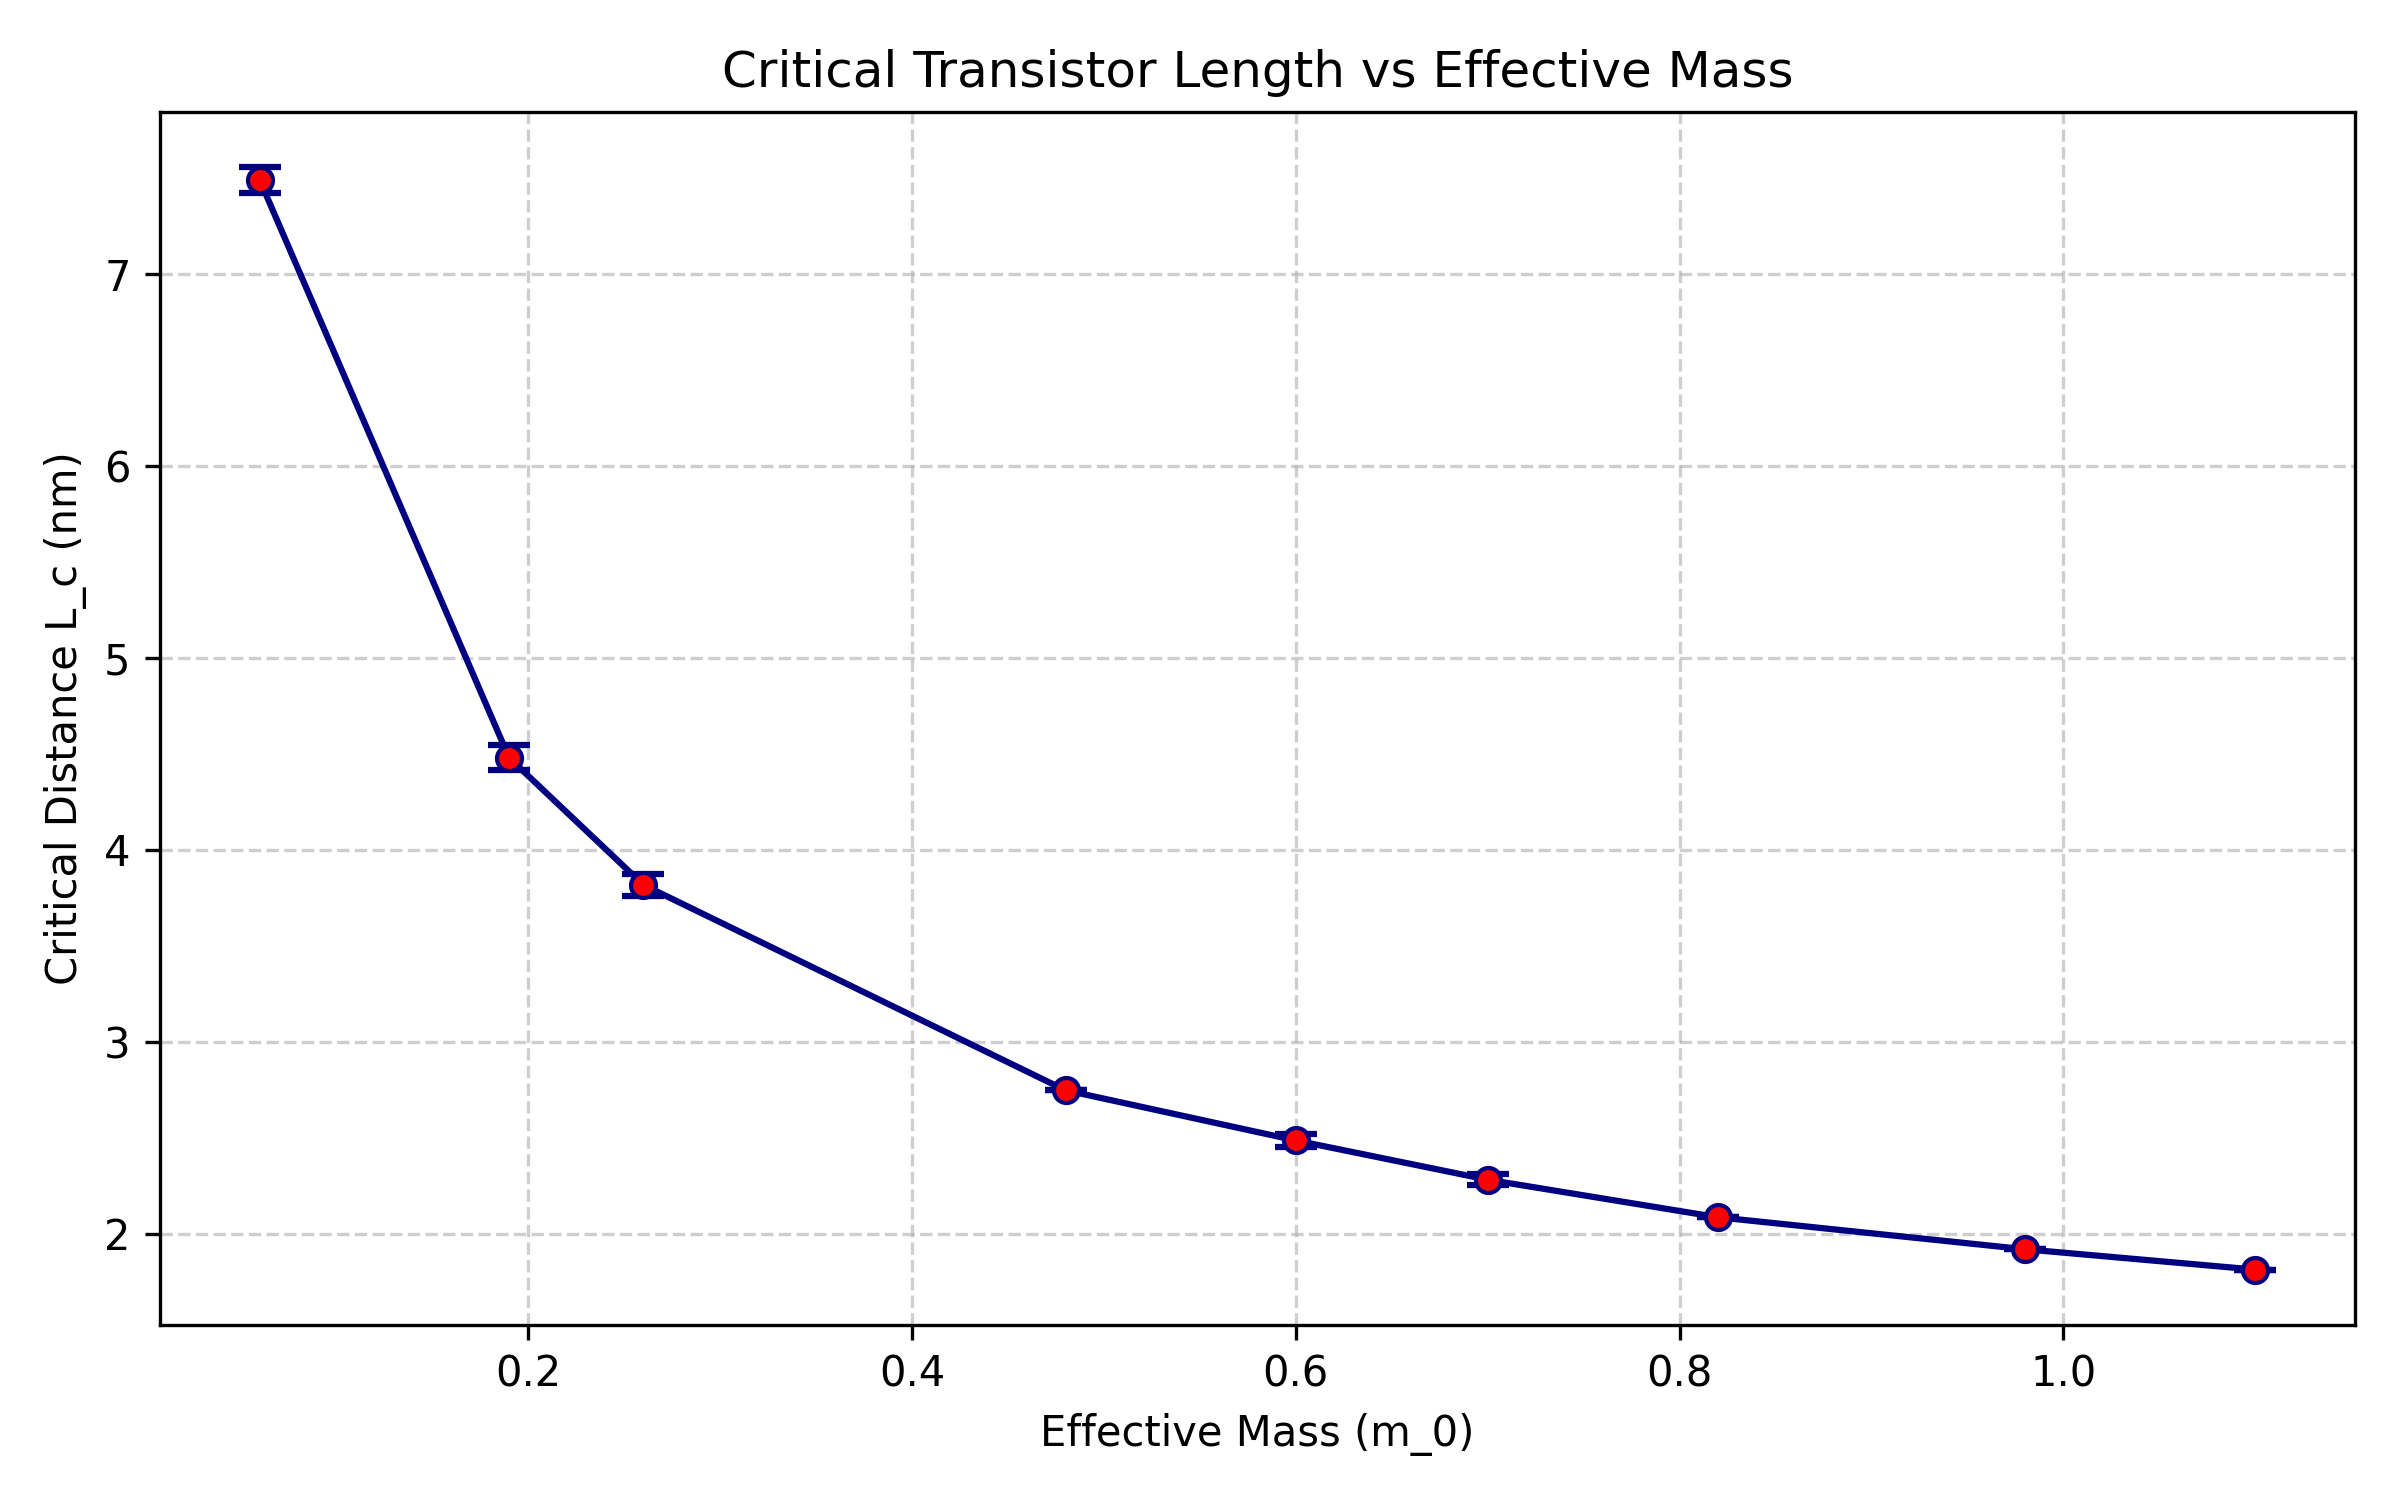
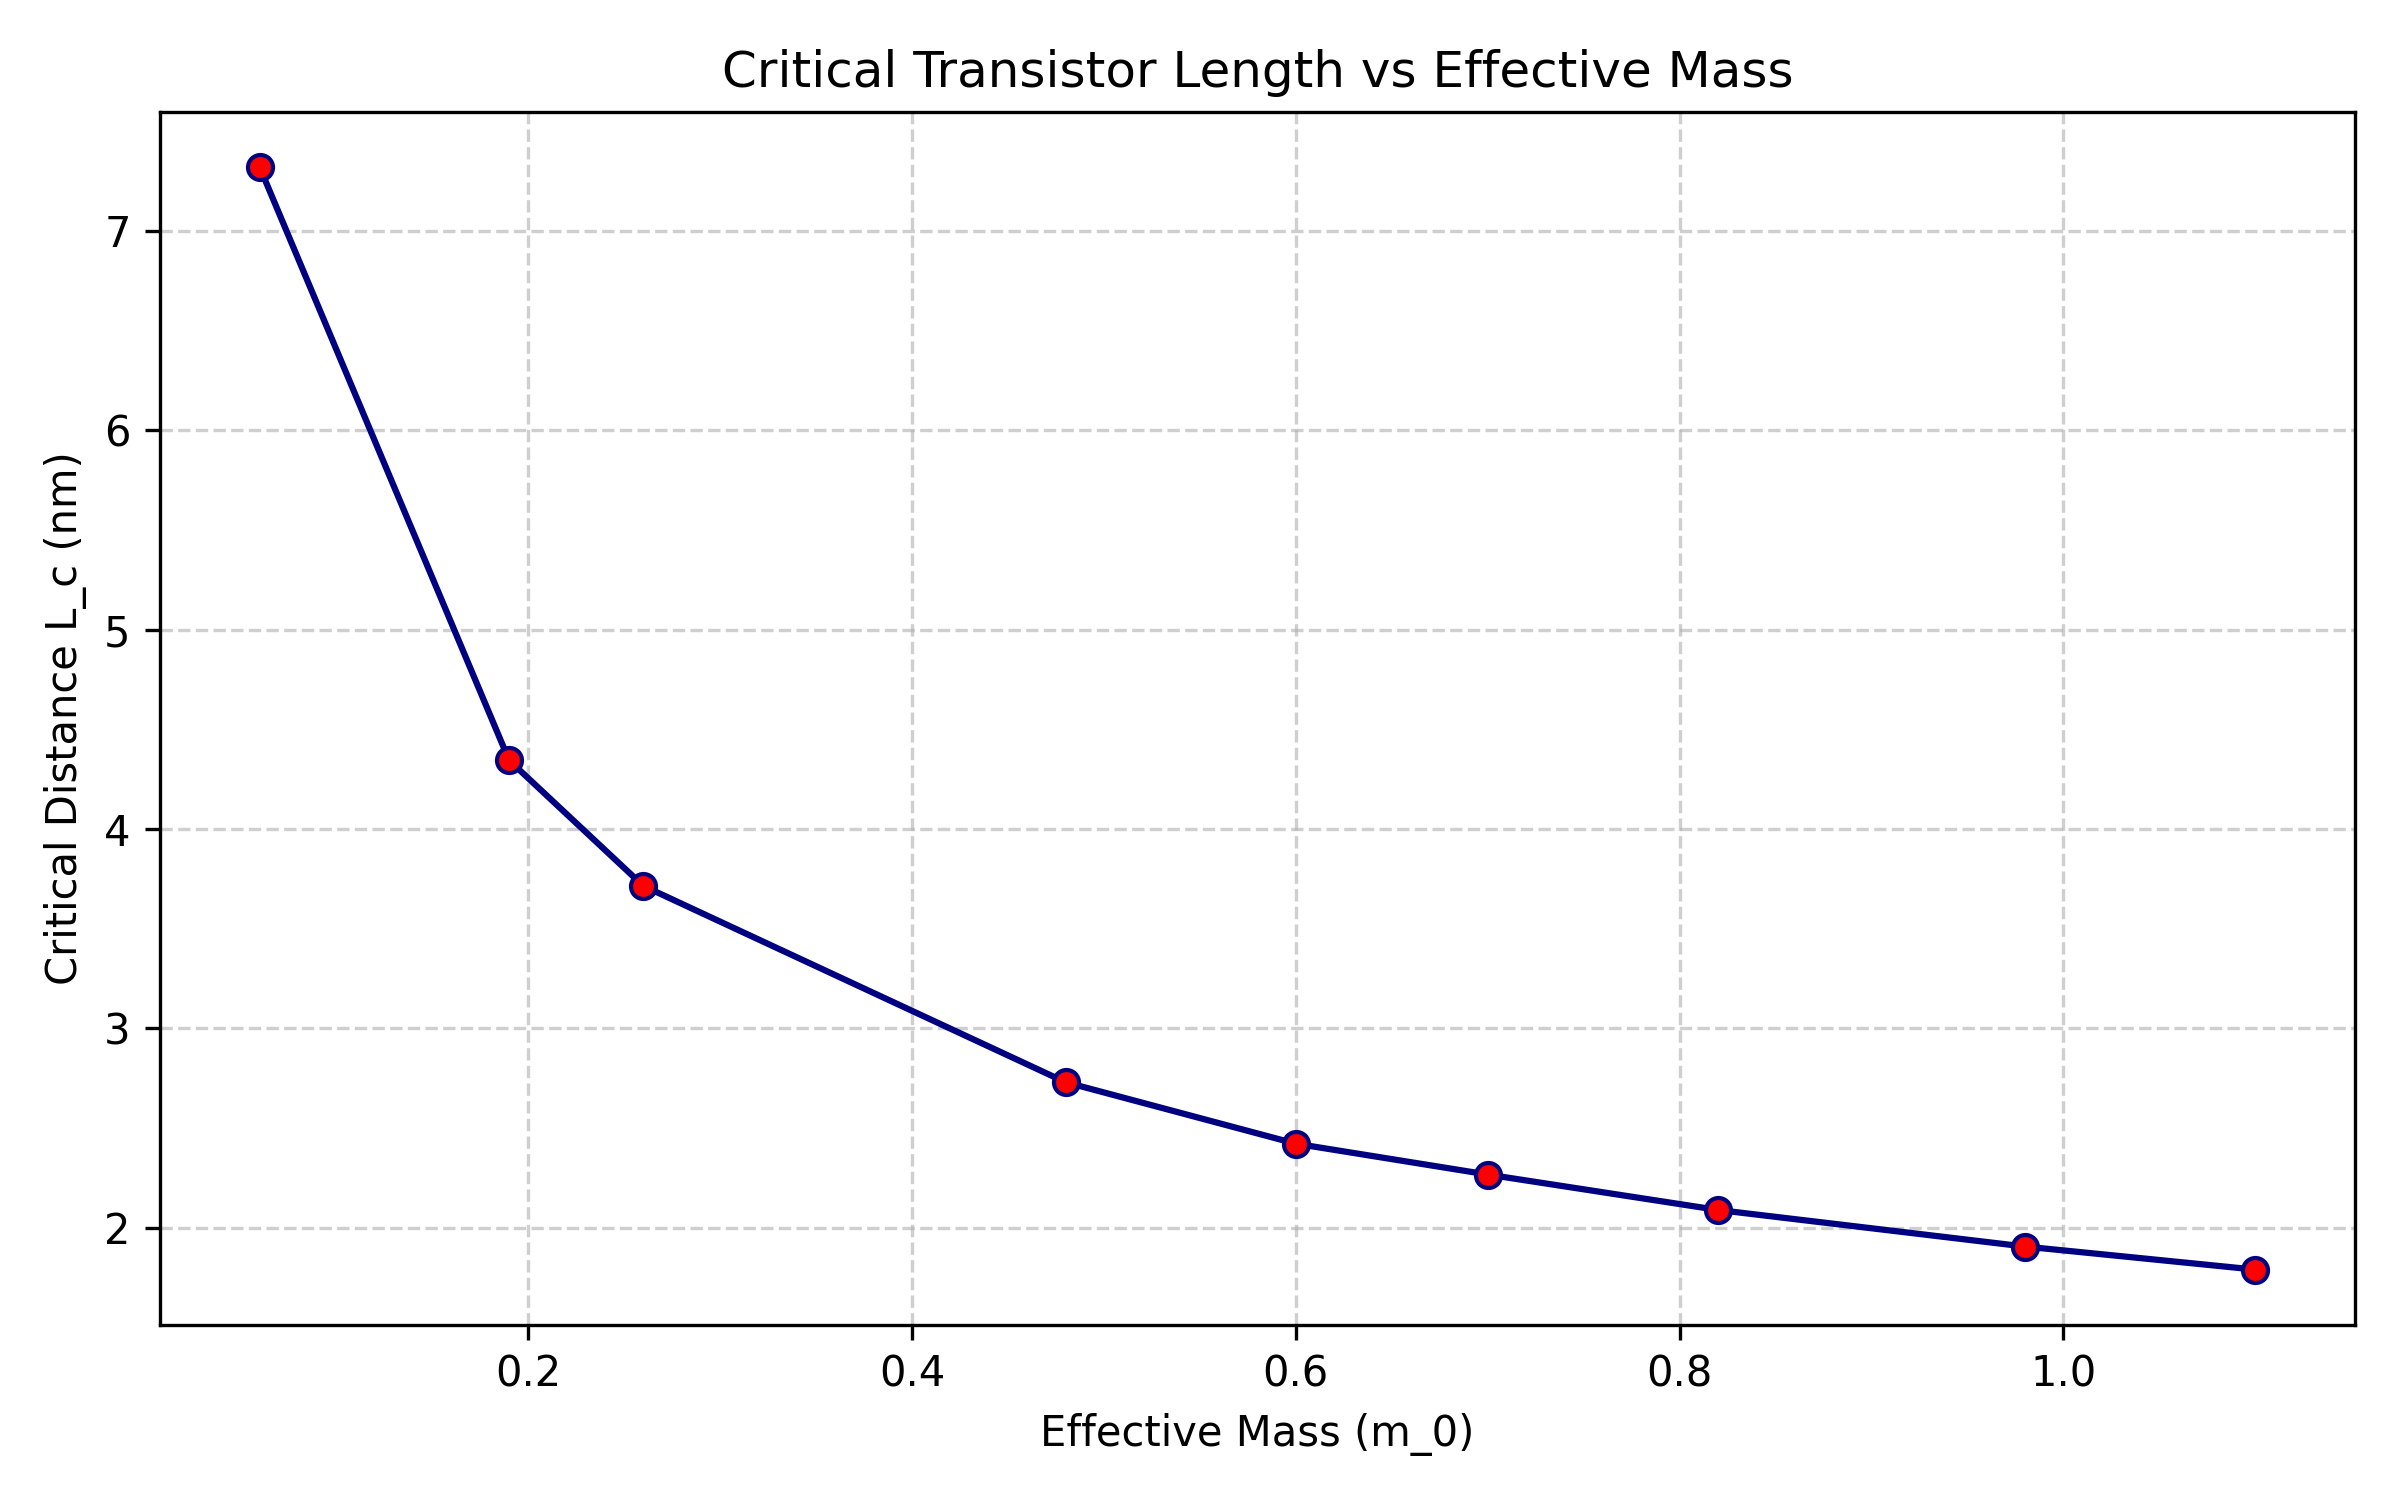
he ajustado a un spline cubico

diff --git a/process_transmissions.py b/process_transmissions.py
@@ -2,6 +2,8 @@ import os
 import re
 import numpy as np
 from scipy.integrate import simpson
+from scipy.interpolate import CubicSpline
+from scipy.optimize import brentq
 import matplotlib.pyplot as plt
 import matplotlib.ticker as ticker
 import csv
@@ -108,44 +110,32 @@ target_y = np.log(target_T)
 for res in results:
     L = res['L']
     T = res['T_avg']
+
+    # Cubic spline interpolation on ln(T)
+    y = np.log(T)
+    cs = CubicSpline(L, y)
     
-    # We want to fit ln(T) = a * L + b
-    # Filter out the numerical noise floor at ~3e-6 which flattens the curves
-    valid = T > 5e-6
-    if np.sum(valid) < 2:
-        valid = T > min(T) # Fallback to all non-minimum points
+    def f(x):
+        return cs(x) - target_y
         
-    L_fit = L[valid]
-    y_fit = np.log(T[valid])
-    
-    if len(L_fit) == 2:
-        # Cannot compute meaningful covariance for 2 points
-        coeffs = np.polyfit(L_fit, y_fit, 1)
-        a, b = coeffs[0], coeffs[1]
-        var_a = var_b = cov_ab = 0.0
-    else:
-        coeffs, cov = np.polyfit(L_fit, y_fit, 1, cov=True)
-        a, b = coeffs[0], coeffs[1]
-        var_a = cov[0, 0]
-        var_b = cov[1, 1]
-        cov_ab = cov[0, 1]
-    
-    # Lc = (target_y - b) / a
-    Lc = (target_y - b) / a
-    
-    # Error propagation
-    if var_a > 0 and var_b > 0:
-        dLc_db = -1.0 / a
-        dLc_da = -(target_y - b) / (a**2)
-        var_Lc = (dLc_db**2) * var_b + (dLc_da**2) * var_a + 2 * dLc_da * dLc_db * cov_ab
-        Lc_err = np.sqrt(max(0, var_Lc))
-    else:
-        Lc_err = 0.0
-    
-    res['a'] = a
-    res['b'] = b
+    Lc = None
+    # Search for root in intervals
+    for i in range(len(L) - 1):
+        if f(L[i]) * f(L[i+1]) <= 0:
+            Lc = brentq(f, L[i], L[i+1])
+            break
+            
+    # If no root found, extrapolate linearly using the first or last two points
+    if Lc is None:
+        if f(L[0]) < 0: # all points below target
+            slope = (y[1] - y[0]) / (L[1] - L[0])
+            Lc = L[0] + (target_y - y[0]) / slope
+        else: # all points above target
+            slope = (y[-1] - y[-2]) / (L[-1] - L[-2])
+            Lc = L[-1] + (target_y - y[-1]) / slope
+
     res['Lc'] = Lc
-    res['Lc_err'] = Lc_err
+    res['cs'] = cs
 
 # ==========================================
 # 4. PLOTS & CSV EXPORT
@@ -155,7 +145,7 @@ with open('critical_distances.csv', 'w', newline='') as f:
     writer = csv.writer(f)
     writer.writerow(['Effective Mass (m0)', 'Folder', 'Critical Distance Lc (nm)', 'Error dLc (nm)', 'Fit Slope (a)', 'Fit Intercept (b)'])
     for res in results:
-        writer.writerow([res['mass'], res['folder'], res['Lc'], res['Lc_err'], res['a'], res['b']])
+        writer.writerow([res['mass'], res['folder'], res['Lc'], 'N/A', 'N/A', 'N/A'])
 
 # Plot 1: Combined Transmission vs Length
 plt.figure(figsize=(10, 6))
@@ -167,9 +157,9 @@ for i, res in enumerate(results):
     T = res['T_avg']
     plt.plot(L, T, marker='o', linestyle='', color=colors[i], markersize=5, label=f"m* = {res['mass']}")
     
-    # Plot the fit line as well over a slightly wider range
-    L_fit = np.linspace(min(L), max(max(L), res['Lc']*1.1), 100)
-    T_fit = np.exp(res['a'] * L_fit + res['b'])
+    # Plot the spline over the data range
+    L_fit = np.linspace(min(L), max(L), 200)
+    T_fit = np.exp(res['cs'](L_fit))
     plt.plot(L_fit, T_fit, linestyle='-', color=colors[i], alpha=0.5)
 
 plt.axhline(y=target_T, color='red', linestyle='--', label=f'Threshold (10^-4)')
@@ -186,10 +176,9 @@ plt.close()
 # Plot 2: Critical Distance vs Effective Mass
 masses = [res['mass'] for res in results]
 Lcs = [res['Lc'] for res in results]
-Lc_errs = [res['Lc_err'] for res in results]
 
 plt.figure(figsize=(8, 5))
-plt.errorbar(masses, Lcs, yerr=Lc_errs, fmt='o-', color='navy', capsize=5, capthick=1.5, markerfacecolor='red')
+plt.plot(masses, Lcs, marker='o', linestyle='-', color='navy', markerfacecolor='red')
 plt.title('Critical Transistor Length vs Effective Mass')
 plt.xlabel('Effective Mass (m_0)')
 plt.ylabel('Critical Distance L_c (nm)')